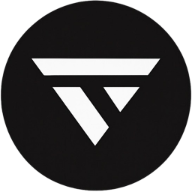
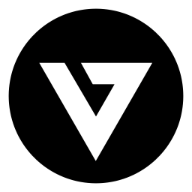
Update branding assets and metadata across site
i. Replaced old logo with latest version
ii. Added LinkedIn icons and linked team profiles
iii. Fixed broken GitHub link to smart contract repository
iv. Implemented OG image and metadata for improved social sharing

Changed region(s): [[0.0, 0.0, 1.0, 1.0], [0.1562, 0.2812, 0.8438, 0.8438]]

diff --git a/src/components/team.tsx b/src/components/team.tsx
@@ -5,26 +5,31 @@ const members = [
         name: 'David Barclay',
         role: 'Co-Founder // Lead',
         avatar: '/team/david.png',
+        linkedin: 'https://www.linkedin.com/in/david-barclay1/'
     },
     {
         name: 'Marius Krasauskas',
         role: 'Co-Founder // Tech',
         avatar: '/team/marius.png',
+        linkedin: 'https://www.linkedin.com/in/mariuskrasauskas/'
     },
     {
         name: 'Tomas Buelow',
         role: 'Co-Founder // Operations',
         avatar: '/team/tom.png',
+        linkedin: 'https://www.linkedin.com/in/tom-buelow/'
     },
     {
         name: 'Ally Polishchuk',
         role: 'Strategy',
         avatar: '/team/ally.png',
+        linkedin: 'https://www.linkedin.com/in/ally-polishchuk-972408147/'
     },
     {
         name: 'Rico Soriano',
         role: 'Marketing',
         avatar: '/team/rico.png',
+        linkedin: 'https://www.linkedin.com/in/rico-john-soriano-383420266/'
     },
 ]
 
@@ -55,7 +60,19 @@ export default function TeamSection() {
                                         loading="lazy"
                                     />
                                 </div>
-                                <span className="mt-2 block text-sm">{member.name}</span>
+                                <div className="mt-2 flex items-center gap-2">
+                                    <span className="text-sm">{member.name}</span>
+                                    <a 
+                                        href={member.linkedin}
+                                        target="_blank"
+                                        rel="noopener noreferrer"
+                                        className="text-muted-foreground hover:text-primary block"
+                                    >
+                                        <svg className="size-4" xmlns="http://www.w3.org/2000/svg" width="1em" height="1em" viewBox="0 0 24 24">
+                                            <path fill="currentColor" d="M19 3a2 2 0 0 1 2 2v14a2 2 0 0 1-2 2H5a2 2 0 0 1-2-2V5a2 2 0 0 1 2-2zm-.5 15.5v-5.3a3.26 3.26 0 0 0-3.26-3.26c-.85 0-1.84.52-2.32 1.3v-1.11h-2.79v8.37h2.79v-4.93c0-.77.62-1.4 1.39-1.4a1.4 1.4 0 0 1 1.4 1.4v4.93zM6.88 8.56a1.68 1.68 0 0 0 1.68-1.68c0-.93-.75-1.69-1.68-1.69a1.69 1.69 0 0 0-1.69 1.69c0 .93.76 1.68 1.69 1.68m1.39 9.94v-8.37H5.5v8.37z"></path>
+                                        </svg>
+                                    </a>
+                                </div>
                                 <span className="text-muted-foreground block text-xs">{member.role}</span>
                             </div>
                         ))}

diff --git a/src/app/layout.tsx b/src/app/layout.tsx
@@ -13,8 +13,20 @@ const geistMono = Geist_Mono({
 });
 
 export const metadata: Metadata = {
-  title: "Vandelay Technologies | Web3 Solutions",
-  description: "Full-service blockchain solutions for teams ready to scale—from smart contracts and dApps to community, marketing, and operational excellence.",
+  title: "Vandelay Technologies | Full-Service Web3 Solutions Provider",
+  description: "Empowering blockchain projects to scale and succeed with tailored Web3 development, smart contract engineering, and growth strategy. Partner with Vandelay Technologies to unlock your project's full potential.",
+  openGraph: {
+    title: "Vandelay Technologies | Full-Service Web3 Solutions Provider",
+    description: "Empowering blockchain projects to scale and succeed with tailored Web3 development, smart contract engineering, and growth strategy. Partner with Vandelay Technologies to unlock your project's full potential.",
+    images: [
+      {
+        url: '/og-image.png',
+        width: 1200,
+        height: 630,
+        alt: 'Vandelay Technologies OG Image',
+      },
+    ],
+  },
   icons: {
     icon: [
       { url: '/favicon.ico' },

diff --git a/src/components/hero-section.tsx b/src/components/hero-section.tsx
@@ -84,7 +84,7 @@ export default function HeroSection() {
                     <div className="relative py-24 lg:py-28">
                         <div className="mx-auto max-w-7xl px-6 md:px-12">
                             <div className="text-center sm:mx-auto sm:w-10/12 lg:mr-auto lg:mt-0 lg:w-4/5">
-                                <Link href="https://github.com/DeFi-Vandelay/ERC20-Smart-Contract-Library" className="rounded-(--radius) mx-auto flex w-fit items-center gap-2 border p-1 pr-3">
+                                <Link href="https://github.com/Vandelay-Technologies/vandelay-smart-contracts" className="rounded-(--radius) mx-auto flex w-fit items-center gap-2 border p-1 pr-3">
                                     <span className="bg-muted rounded-[calc(var(--radius)-0.25rem)] px-2 py-1 text-xs">New</span>
                                     <span className="text-sm">Smart Contract Library</span>
                                     <span className="bg-(--color-border) block h-4 w-px"></span>
